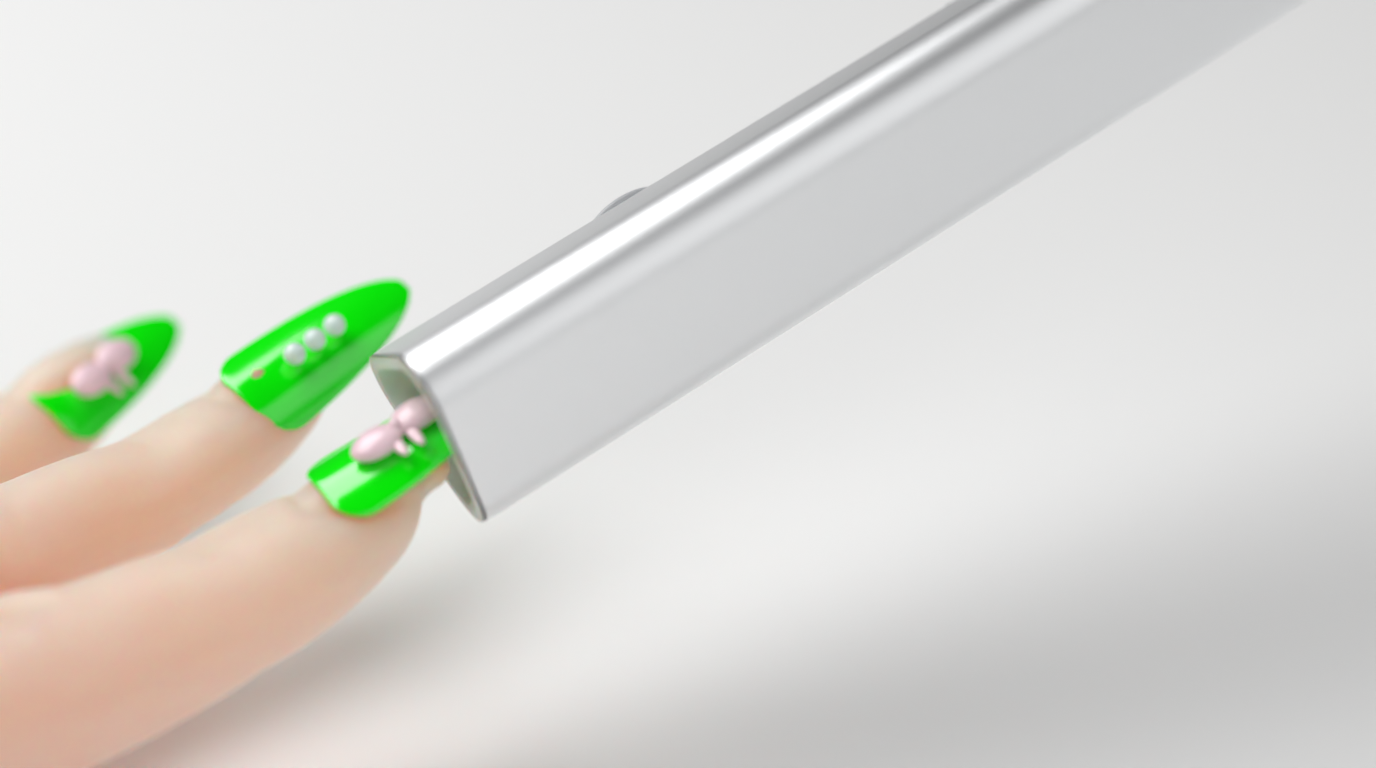
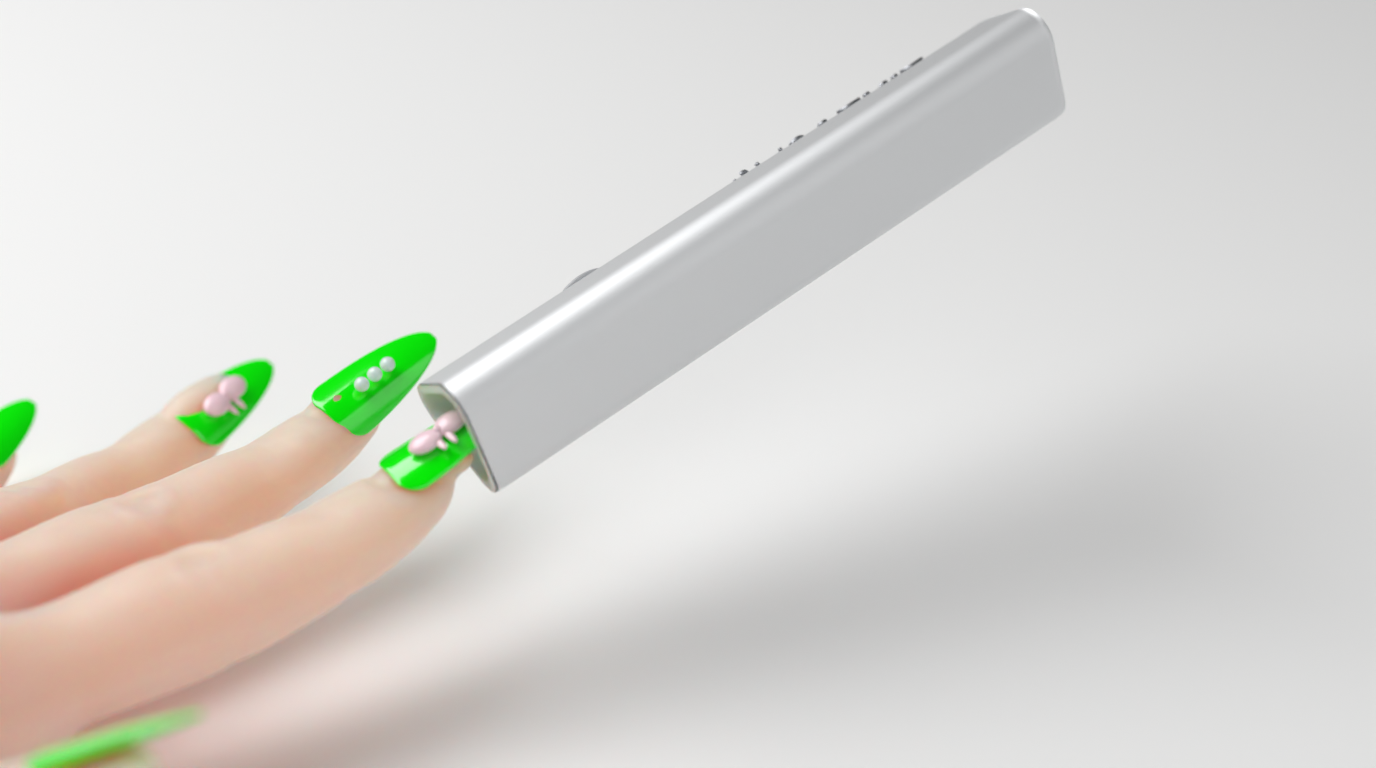
Blender: move spins the Shifter on the table in front of the fingertips (no flip, no clipping); re-rendered stills
Claude-Session: https://claude.ai/code/session_01RnnKGLoUCTT9NksrMBKWFQ

Changed region(s): [[0.0, 0.0, 0.875, 1.0], [0.4062, 0.875, 0.875, 1.0], [0.6875, 0.25, 0.7188, 0.2812]]

diff --git a/tools/blender/scene.py b/tools/blender/scene.py
@@ -492,9 +492,21 @@ def set_shot(t):
     camo.data.lens = lens; camo.data.dof.focus_distance = (look - loc).length
     camo.data.dof.aperture_fstop = 8.0 - 2.0 * e
     d0, d1 = device_wide(), device_close()
-    l0, r0, _ = d0.decompose(); l1, r1, _ = d1.decompose()
+    l0 = d0.translation; l1 = d1.translation
+    x0, x1 = d0.col[0].xyz, d1.col[0].xyz
+    yaw0, yaw1 = math.atan2(x0.y, x0.x), math.atan2(x1.y, x1.x)
+    while yaw1 < yaw0: yaw1 += 2 * math.pi          # counter-clockwise: the body swings toward the camera, clear of the hand
+    pitch1 = math.asin(max(-1, min(1, x1.z)))
     ed = min(1.0, max(0.0, (t - 0.05) / 0.85)); ed = ed * ed * (3 - 2 * ed)
-    shifter.matrix_world = Matrix.Translation(l0.lerp(l1, ed)) @ r0.slerp(r1, ed).to_matrix().to_4x4()
+    ep = min(1.0, max(0.0, (t - 0.6) / 0.4)); ep = ep * ep * (3 - 2 * ep)     # tilt up only at the end
+    R = Matrix.Rotation(yaw0 + (yaw1 - yaw0) * ed, 4, "Z") @ Matrix.Rotation(-pitch1 * ep, 4, "Y")
+    # keep the device's opening on the path: interpolate the opening point, not the origin
+    oc = Vector((DEV_L, 0, -ZLOW))
+    p0 = d0 @ oc; p1 = d1 @ oc
+    pz = p0.z + (p1.z - p0.z) * ep
+    ctrl = Vector((p1.x + 0.07, p1.y - 0.05, 0))     # pass in front of the fingertips, never through the hand
+    pxy = p0 * (1 - ed) ** 2 + ctrl * 2 * ed * (1 - ed) + p1 * ed ** 2; pxy.z = pz
+    shifter.matrix_world = Matrix.Translation(pxy - R.to_3x3() @ oc) @ R
     HOLDER.hide_render = t > 0.5
 
 S.camera = cam("cam", (0, -0.4, 0.4), (0.1, 0, 0), 50)
